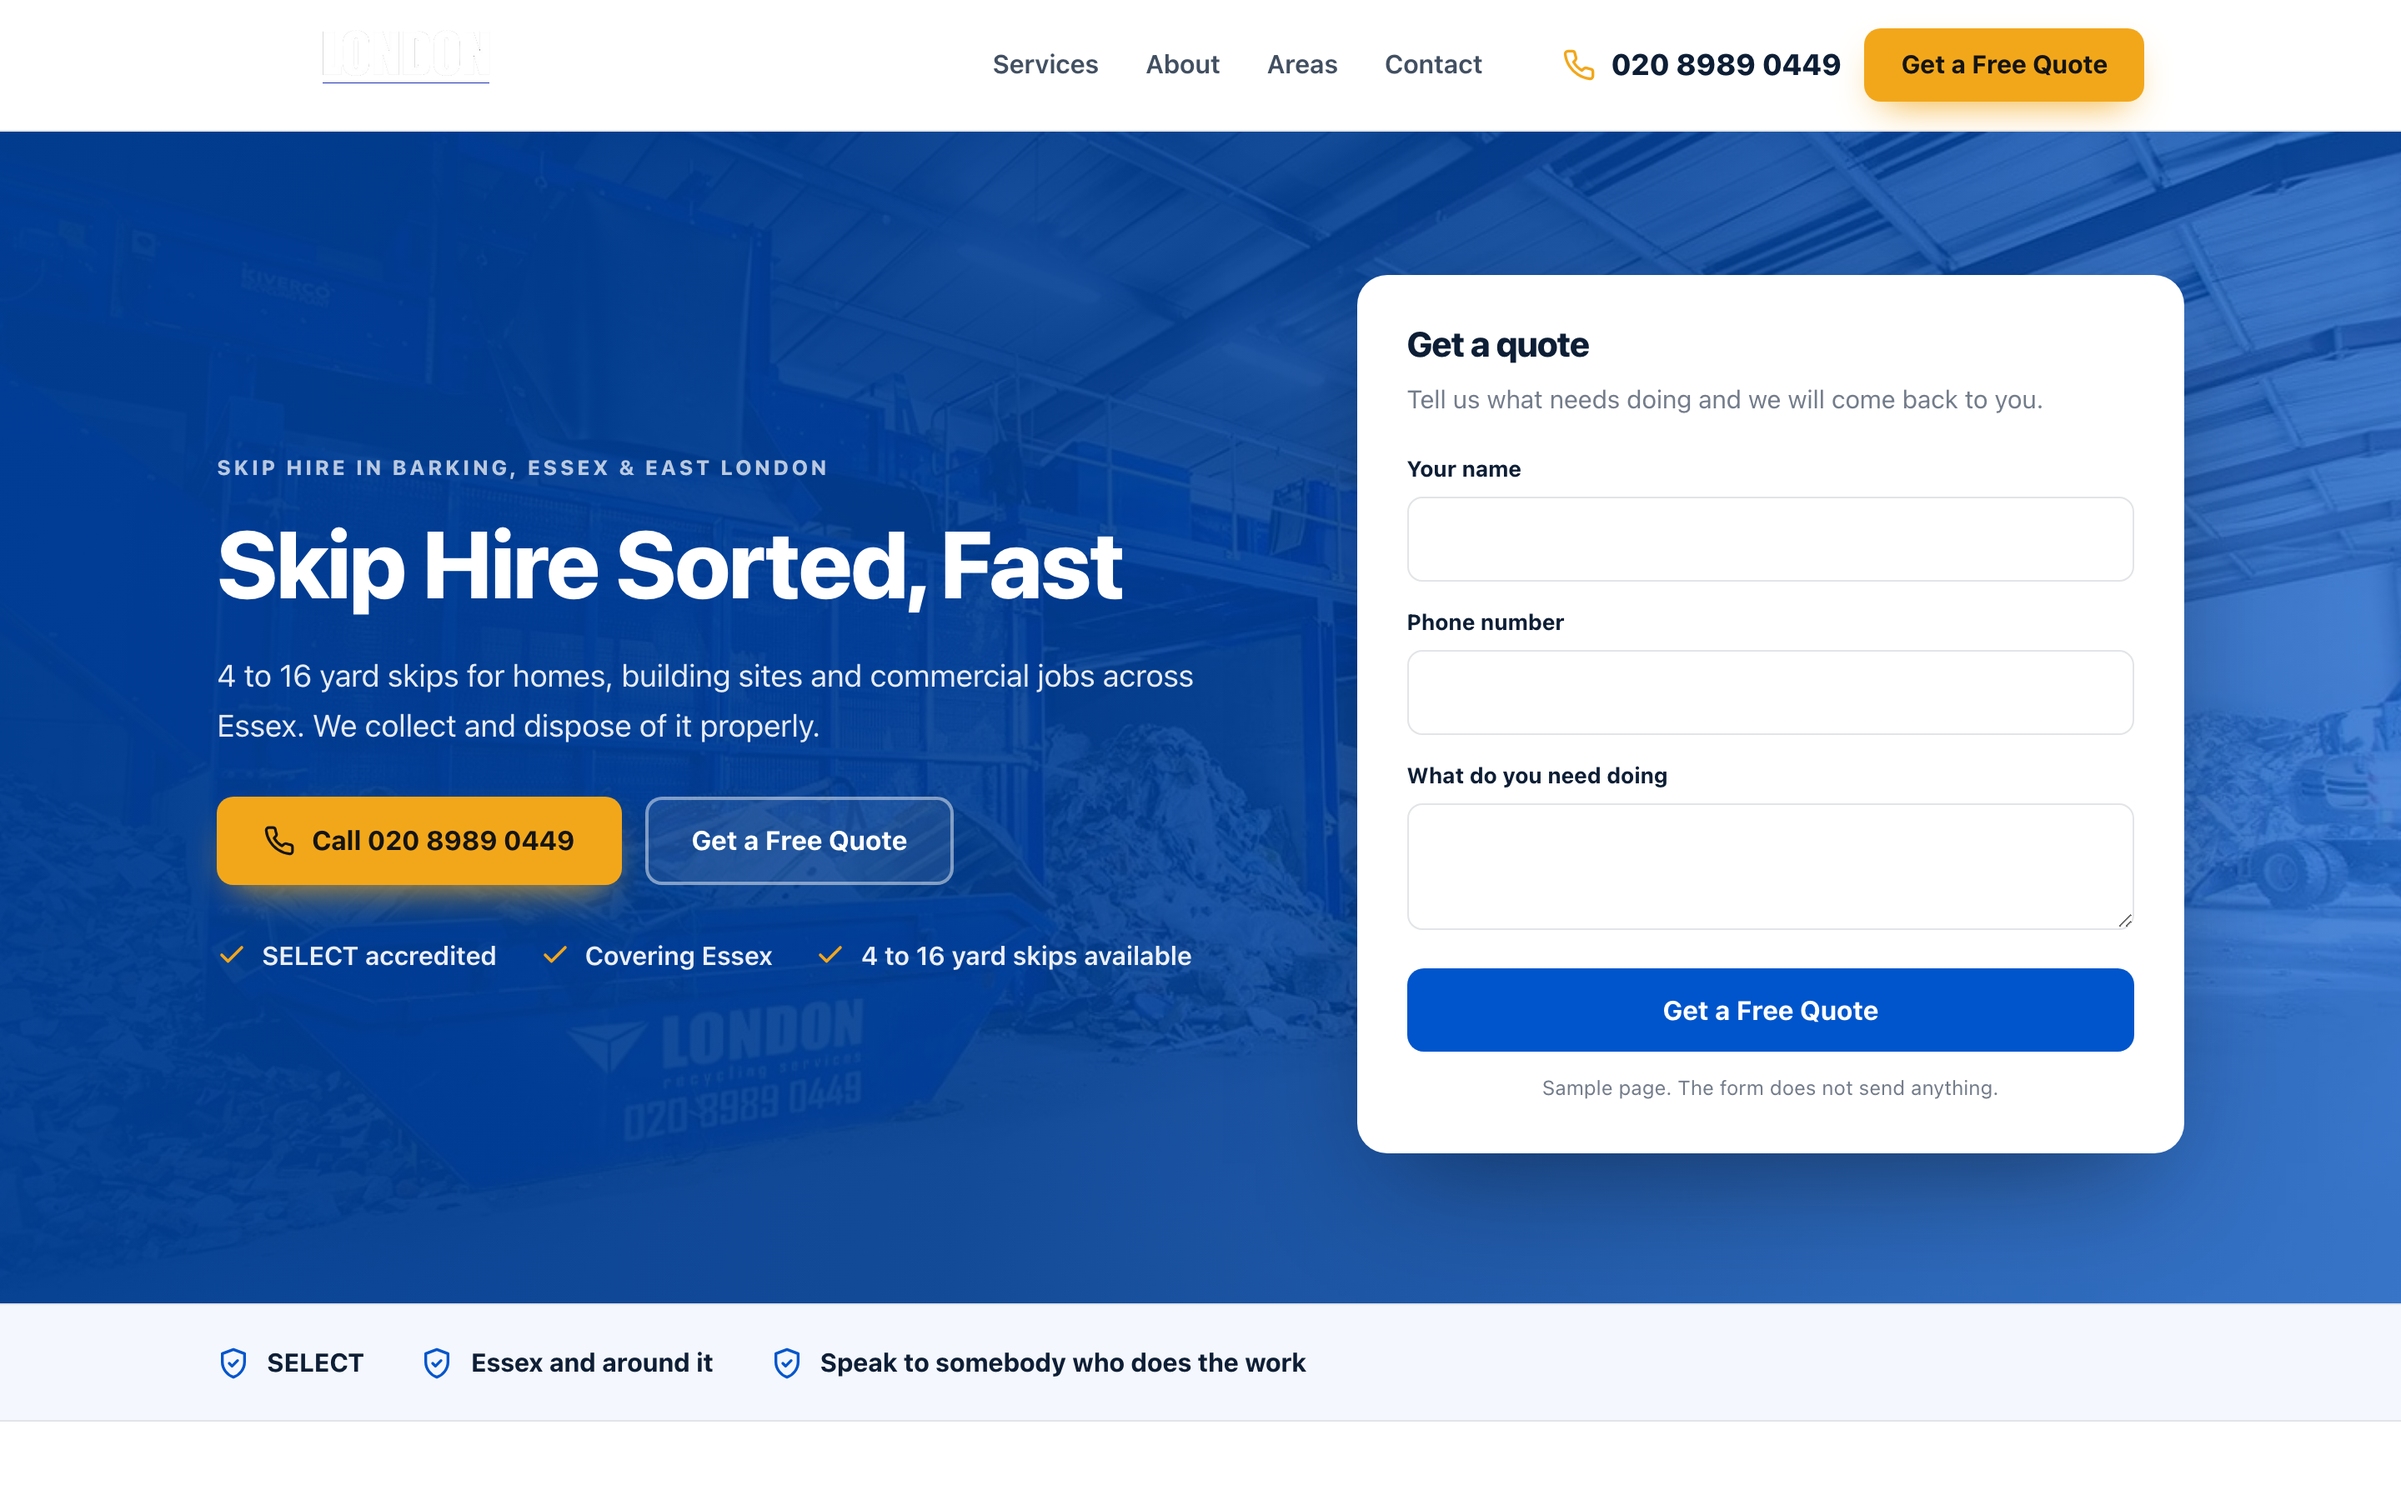
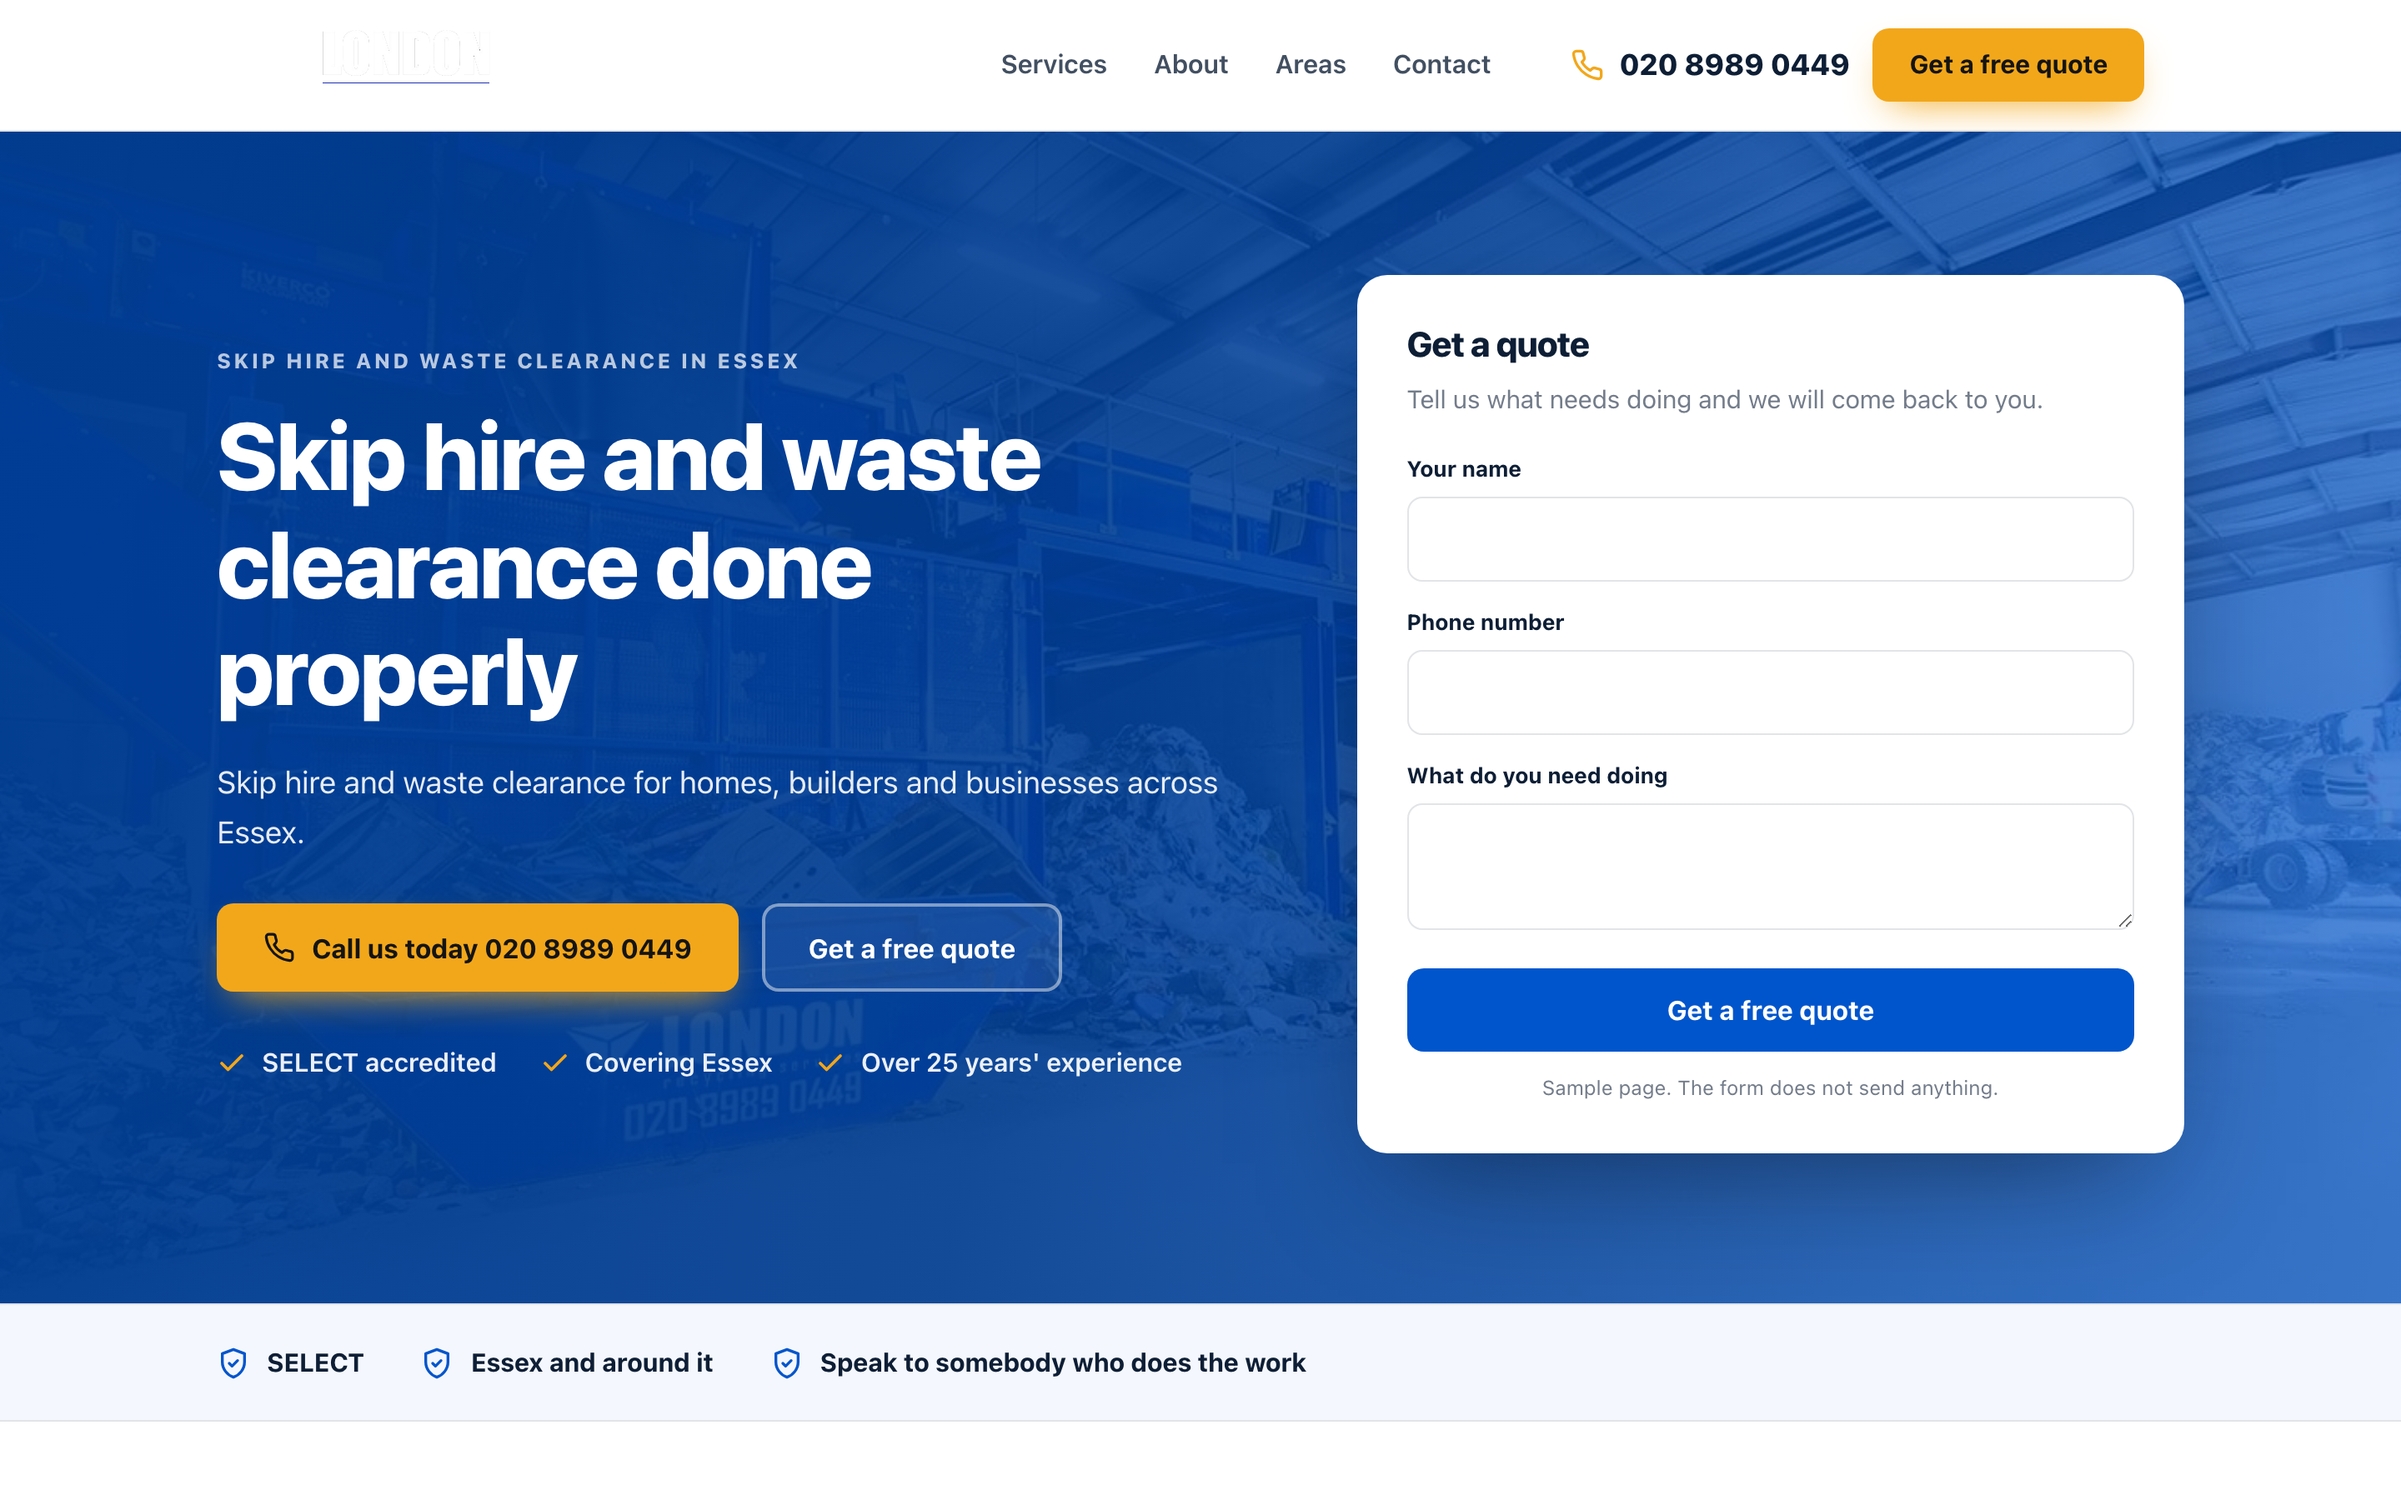
Sample homepage for London Recycling

diff --git a/docs/447b226a0f/index.html b/docs/447b226a0f/index.html
@@ -4,12 +4,12 @@
 <meta charset="utf-8">
 <meta name="viewport" content="width=device-width, initial-scale=1">
 <meta name="robots" content="noindex,nofollow">
-<title>Skip Hire East London sample homepage</title>
-<meta name="description" content="4 to 16 yard skips for homes, building sites and commercial jobs across Essex. We collect and dispose of it properly.">
+<title>London Recycling sample homepage</title>
+<meta name="description" content="Skip hire and waste clearance for homes, builders and businesses across Essex.">
 <link rel="canonical" href="https://markygff.github.io/aso-mockups/447b226a0f/">
 <meta property="og:type" content="website">
-<meta property="og:title" content="Skip Hire East London sample homepage">
-<meta property="og:description" content="4 to 16 yard skips for homes, building sites and commercial jobs across Essex. We collect and dispose of it properly.">
+<meta property="og:title" content="London Recycling sample homepage">
+<meta property="og:description" content="Skip hire and waste clearance for homes, builders and businesses across Essex.">
 <meta property="og:url" content="https://markygff.github.io/aso-mockups/447b226a0f/">
 <meta property="og:image" content="https://london-group.co.uk/images/slider-5.jpg"><style>
 :root{
@@ -119,13 +119,13 @@ p{margin:0}
 <header class="header">
   <div class="wrap header-in">
     <div class="brand">
-<img src="https://london-group.co.uk/images/logo.png" alt="Skip Hire East London logo">    </div>
+<img src="https://london-group.co.uk/images/logo.png" alt="London Recycling logo">    </div>
     <nav class="nav">
       <span>Services</span><span>About</span><span>Areas</span><span>Contact</span>
     </nav>
     <div class="header-cta">
       <span class="tel"><svg viewBox="0 0 24 24" fill="none" stroke="currentColor" stroke-width="2" stroke-linecap="round" stroke-linejoin="round" aria-hidden="true"><path d="M22 16.9v3a2 2 0 0 1-2.2 2 19.8 19.8 0 0 1-8.6-3.1 19.5 19.5 0 0 1-6-6 19.8 19.8 0 0 1-3.1-8.7A2 2 0 0 1 4.1 2h3a2 2 0 0 1 2 1.7c.1 1 .4 1.9.7 2.8a2 2 0 0 1-.5 2.1L8.1 9.9a16 16 0 0 0 6 6l1.3-1.2a2 2 0 0 1 2.1-.5c.9.3 1.8.6 2.8.7a2 2 0 0 1 1.7 2z"/></svg><span>020 8989 0449</span></span>
-      <span class="btn btn-accent">Get a Free Quote</span>
+      <span class="btn btn-accent">Get a free quote</span>
     </div>
   </div>
 </header>
@@ -134,15 +134,15 @@ p{margin:0}
   <div class="hero-bg"><img src="https://london-group.co.uk/images/slider-5.jpg" alt="slider-5" width="1600" height="900"></div>
   <div class="wrap hero-in">
     <div>
-      <p class="eyebrow">Skip Hire in Barking, Essex &amp; East London</p>
-      <h1>Skip Hire Sorted, Fast</h1>
-      <p class="hero-sub">4 to 16 yard skips for homes, building sites and commercial jobs across Essex. We collect and dispose of it properly.</p>
+      <p class="eyebrow">Skip hire and waste clearance in Essex</p>
+      <h1>Skip hire and waste clearance done properly</h1>
+      <p class="hero-sub">Skip hire and waste clearance for homes, builders and businesses across Essex.</p>
       <div class="hero-actions">
-        <span class="btn btn-accent"><svg viewBox="0 0 24 24" fill="none" stroke="currentColor" stroke-width="2" stroke-linecap="round" stroke-linejoin="round" aria-hidden="true"><path d="M22 16.9v3a2 2 0 0 1-2.2 2 19.8 19.8 0 0 1-8.6-3.1 19.5 19.5 0 0 1-6-6 19.8 19.8 0 0 1-3.1-8.7A2 2 0 0 1 4.1 2h3a2 2 0 0 1 2 1.7c.1 1 .4 1.9.7 2.8a2 2 0 0 1-.5 2.1L8.1 9.9a16 16 0 0 0 6 6l1.3-1.2a2 2 0 0 1 2.1-.5c.9.3 1.8.6 2.8.7a2 2 0 0 1 1.7 2z"/></svg>Call 020 8989 0449</span>
-        <span class="btn btn-ghost">Get a Free Quote</span>
+        <span class="btn btn-accent"><svg viewBox="0 0 24 24" fill="none" stroke="currentColor" stroke-width="2" stroke-linecap="round" stroke-linejoin="round" aria-hidden="true"><path d="M22 16.9v3a2 2 0 0 1-2.2 2 19.8 19.8 0 0 1-8.6-3.1 19.5 19.5 0 0 1-6-6 19.8 19.8 0 0 1-3.1-8.7A2 2 0 0 1 4.1 2h3a2 2 0 0 1 2 1.7c.1 1 .4 1.9.7 2.8a2 2 0 0 1-.5 2.1L8.1 9.9a16 16 0 0 0 6 6l1.3-1.2a2 2 0 0 1 2.1-.5c.9.3 1.8.6 2.8.7a2 2 0 0 1 1.7 2z"/></svg>Call us today 020 8989 0449</span>
+        <span class="btn btn-ghost">Get a free quote</span>
       </div>
       <ul class="hero-bullets">
-<li><svg viewBox="0 0 24 24" fill="none" stroke="currentColor" stroke-width="2.4" stroke-linecap="round" stroke-linejoin="round" aria-hidden="true"><path d="M20 6 9 17l-5-5"/></svg><span>SELECT accredited</span></li><li><svg viewBox="0 0 24 24" fill="none" stroke="currentColor" stroke-width="2.4" stroke-linecap="round" stroke-linejoin="round" aria-hidden="true"><path d="M20 6 9 17l-5-5"/></svg><span>Covering Essex</span></li><li><svg viewBox="0 0 24 24" fill="none" stroke="currentColor" stroke-width="2.4" stroke-linecap="round" stroke-linejoin="round" aria-hidden="true"><path d="M20 6 9 17l-5-5"/></svg><span>4 to 16 yard skips available</span></li>      </ul>
+<li><svg viewBox="0 0 24 24" fill="none" stroke="currentColor" stroke-width="2.4" stroke-linecap="round" stroke-linejoin="round" aria-hidden="true"><path d="M20 6 9 17l-5-5"/></svg><span>SELECT accredited</span></li><li><svg viewBox="0 0 24 24" fill="none" stroke="currentColor" stroke-width="2.4" stroke-linecap="round" stroke-linejoin="round" aria-hidden="true"><path d="M20 6 9 17l-5-5"/></svg><span>Covering Essex</span></li><li><svg viewBox="0 0 24 24" fill="none" stroke="currentColor" stroke-width="2.4" stroke-linecap="round" stroke-linejoin="round" aria-hidden="true"><path d="M20 6 9 17l-5-5"/></svg><span>Over 25 years&#39; experience</span></li>      </ul>
     </div>
     <div class="quote-card">
       <h3>Get a quote</h3>
@@ -150,7 +150,7 @@ p{margin:0}
       <div class="field"><label>Your name</label><input type="text" disabled></div>
       <div class="field"><label>Phone number</label><input type="tel" disabled></div>
       <div class="field"><label>What do you need doing</label><textarea disabled></textarea></div>
-      <span class="btn btn-primary">Get a Free Quote</span>
+      <span class="btn btn-primary">Get a free quote</span>
       <p class="sample-note">Sample page. The form does not send anything.</p>
     </div>
   </div>
@@ -168,29 +168,29 @@ p{margin:0}
   <div class="wrap">
     <div class="services-head">
       <p class="eyebrow">What we do</p>
-      <h2>Skip Hire East London, Essex</h2>
-      <p>4 to 16 yard skips for homes, building sites and commercial jobs across Essex. We collect and dispose of it properly.</p>
+      <h2>London Recycling, Essex</h2>
+      <p>Skip hire and waste clearance for homes, builders and businesses across Essex.</p>
     </div>
     <div class="grid">
       <article class="card">
         <div class="icon"><svg viewBox="0 0 24 24" fill="none" stroke="currentColor" stroke-width="2" stroke-linecap="round" stroke-linejoin="round" aria-hidden="true"><path d="M14.7 6.3a4 4 0 0 0 5.3 5.3l-8 8a3 3 0 0 1-4.2-4.2z"/><path d="m14.7 6.3 3-3"/></svg></div>
         <h3>Skip Hire</h3>
-        <p>4, 6, 8 and 16 yard skips for homes, sites and businesses.</p>
+        <p>Skips for homes, building sites and businesses across Essex.</p>
       </article>
       <article class="card">
         <div class="icon"><svg viewBox="0 0 24 24" fill="none" stroke="currentColor" stroke-width="2" stroke-linecap="round" stroke-linejoin="round" aria-hidden="true"><path d="M13 2 4 14h7l-1 8 9-12h-7z"/></svg></div>
-        <h3>Builders Skips</h3>
-        <p>Durable skips built for building sites, in a range of sizes.</p>
+        <h3>Waste Clearance</h3>
+        <p>We clear waste from homes, building sites and commercial jobs.</p>
       </article>
       <article class="card">
         <div class="icon"><svg viewBox="0 0 24 24" fill="none" stroke="currentColor" stroke-width="2" stroke-linecap="round" stroke-linejoin="round" aria-hidden="true"><path d="M3 10.5 12 3l9 7.5"/><path d="M5 9.5V21h14V9.5"/><path d="M10 21v-6h4v6"/></svg></div>
-        <h3>Waste Clearance</h3>
-        <p>Waste clearance for domestic, commercial and construction jobs.</p>
+        <h3>Builders Skips</h3>
+        <p>Durable skips built for building sites and construction waste.</p>
       </article>
       <article class="card">
         <div class="icon"><svg viewBox="0 0 24 24" fill="none" stroke="currentColor" stroke-width="2" stroke-linecap="round" stroke-linejoin="round" aria-hidden="true"><path d="M4 20 15 9"/><path d="m14 4 6 6-3 3-6-6z"/><path d="m3 15 6 6"/></svg></div>
         <h3>Skip Sizes</h3>
-        <p>A range of skip sizes so you only pay for the space you need.</p>
+        <p>A range of skip sizes to suit the size of your job.</p>
       </article>
     </div>
   </div>
@@ -198,7 +198,7 @@ p{margin:0}
 
 <footer class="footer">
   <div class="wrap footer-in">
-    <span>Sample built for Skip Hire East London from your public website. Not live. Tell us and we delete it.</span>
+    <span>Sample built for London Recycling from your public website. Not live. Tell us and we delete it.</span>
     <span>london-group.co.uk</span>
   </div>
 </footer>
